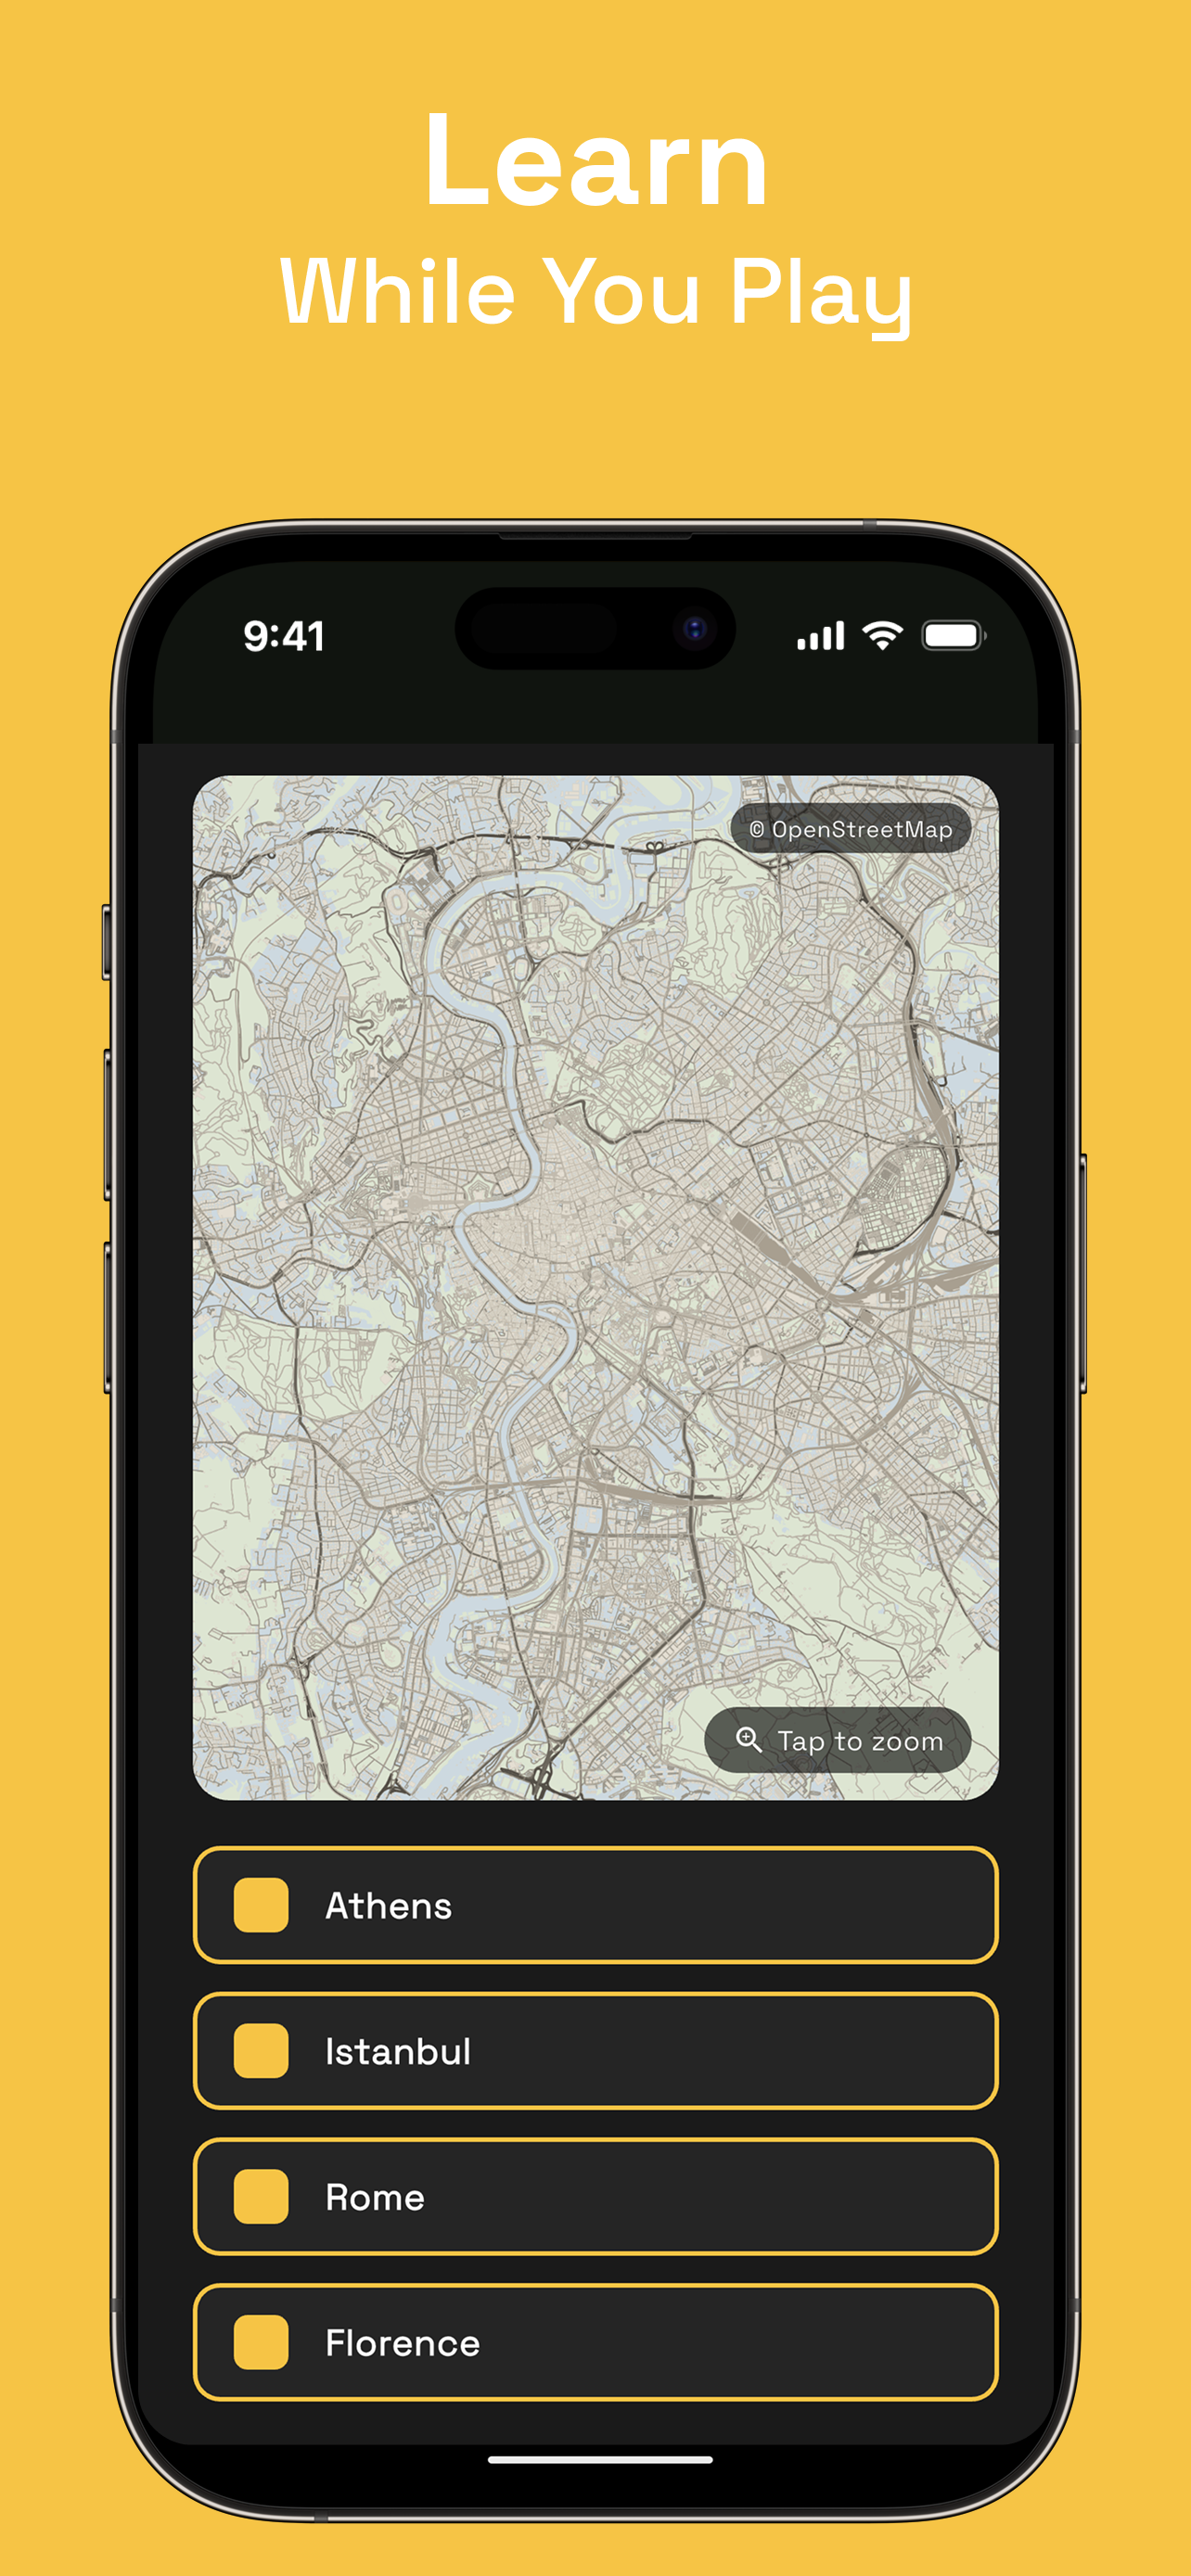
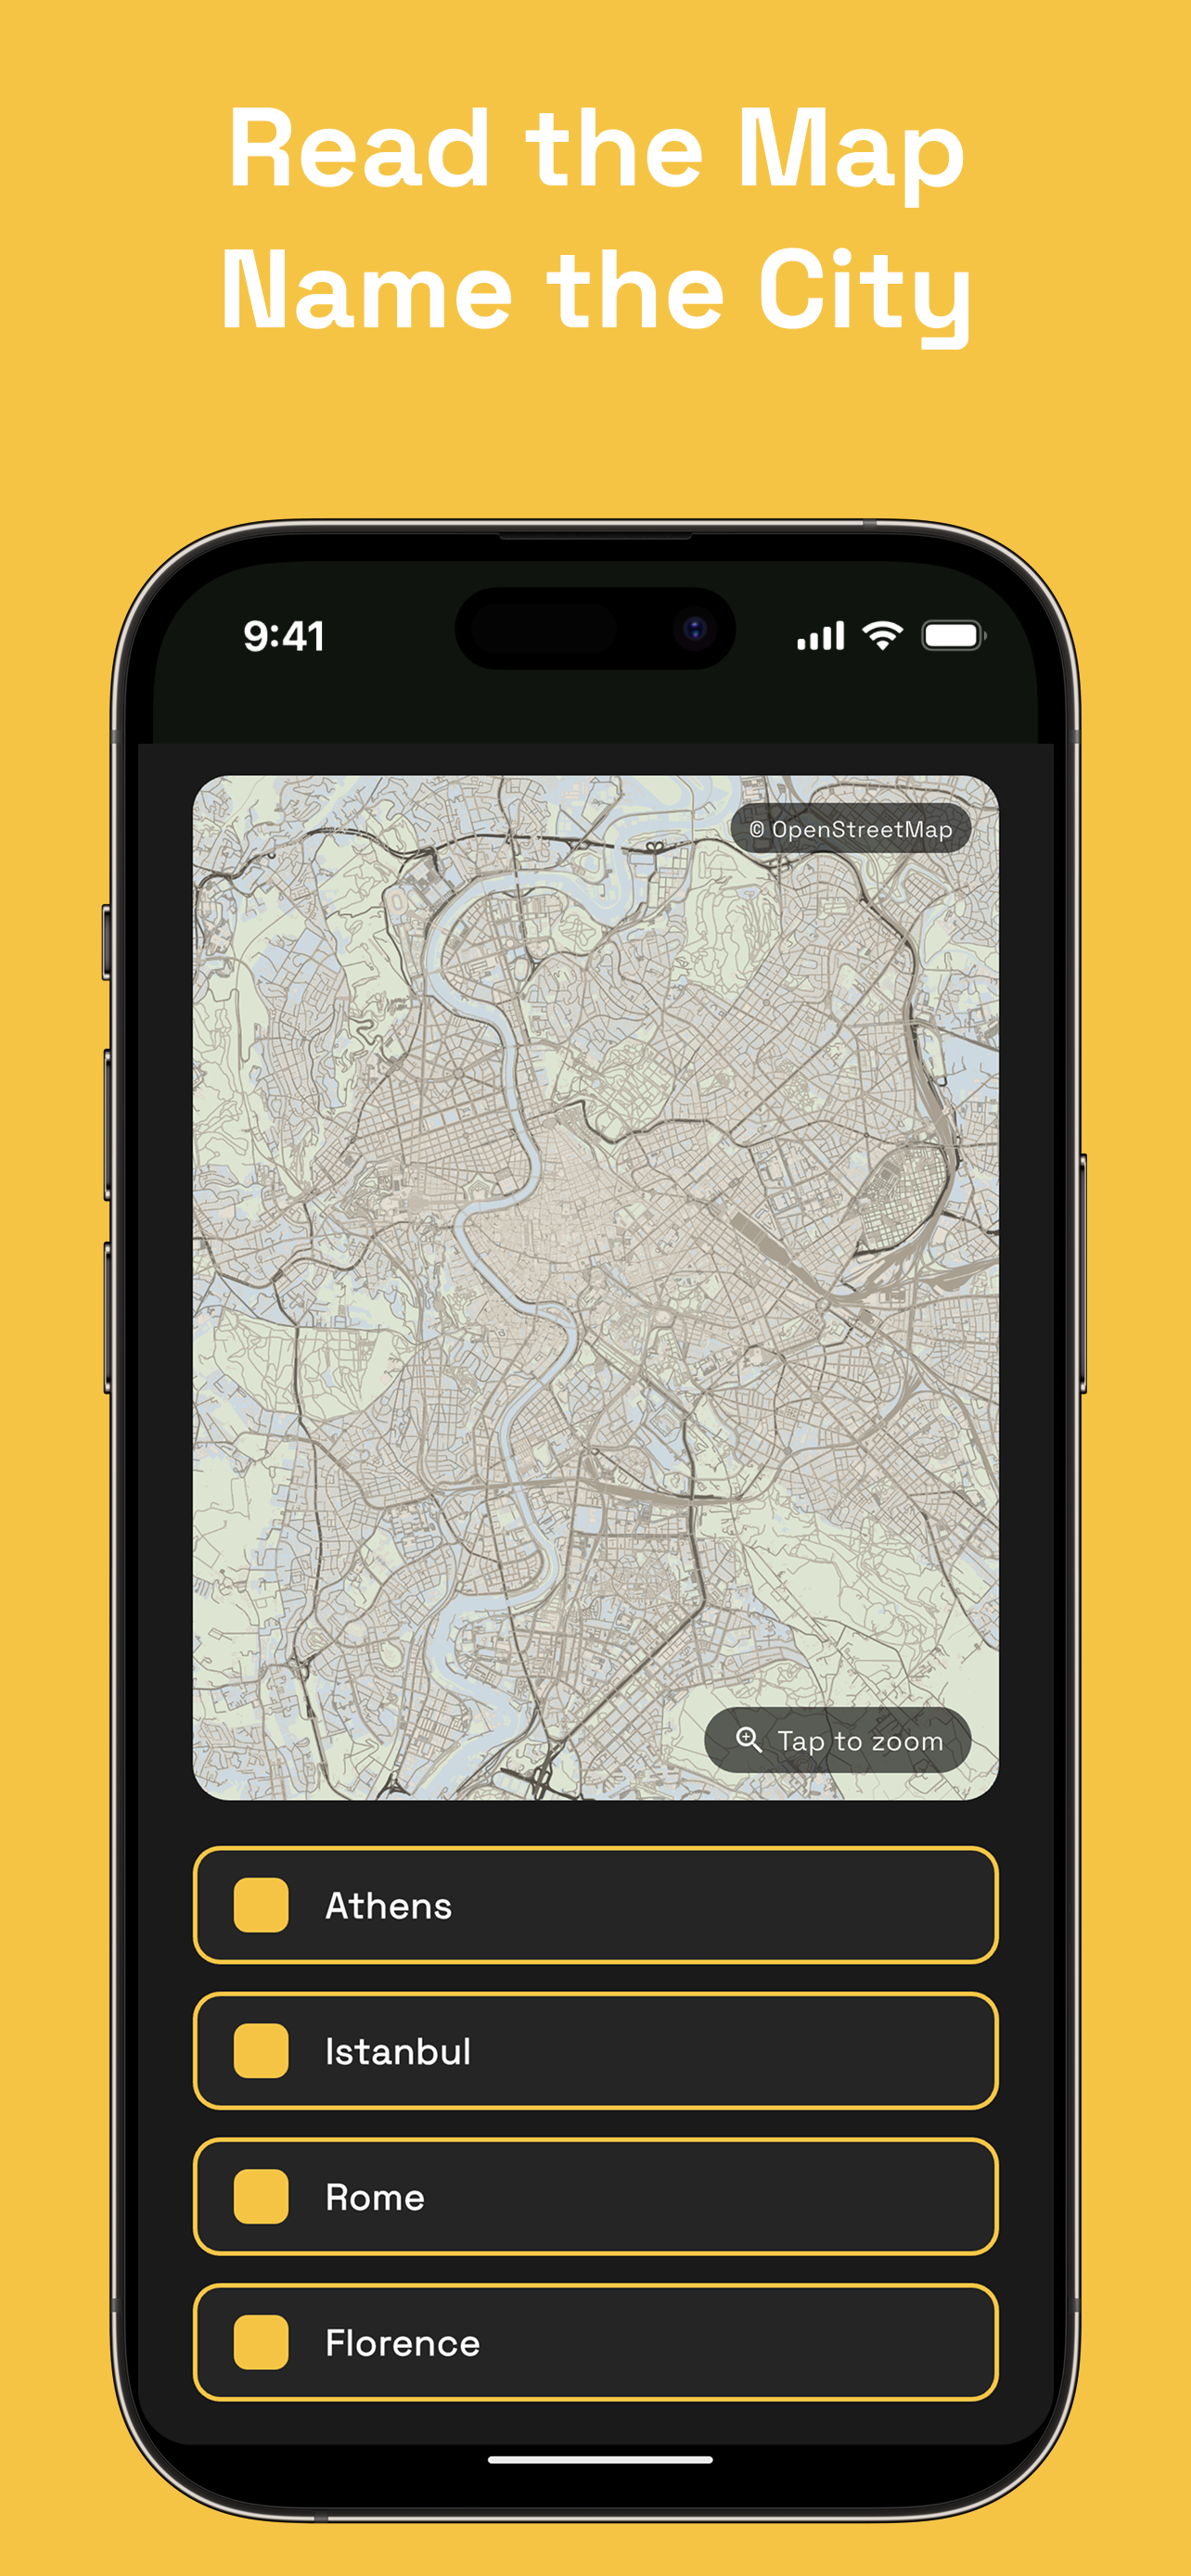
website updated

Changed region(s): [[0.1869, 0.031, 0.81, 0.1548]]

diff --git a/index.html b/index.html
@@ -118,6 +118,11 @@
             line-height: 1.65;
         }
 
+        .hero-sub strong {
+            color: #f0c02e;
+            font-weight: 600;
+        }
+
         .badges {
             display: flex;
             gap: 1rem;
@@ -439,14 +444,27 @@
 
         @media (max-width: 768px) {
             .hero {
-                grid-template-columns: 1fr;
+                display: flex;
+                flex-direction: column;
+                align-items: center;
                 padding: 3rem 1.5rem 3rem;
-                gap: 2.5rem;
+                gap: 1.5rem;
                 text-align: center;
             }
 
+            /* lift the hero children up so the title, images and text can interleave */
             .hero-content {
-                align-items: center;
+                display: contents;
+            }
+
+            .hero h1 {
+                order: -2;
+                font-size: 2.4rem;
+            }
+
+            .hero-screenshots {
+                order: -1;
+                margin: 0.75rem 0;
             }
 
             .badges {
@@ -464,10 +482,6 @@
             .hero-screenshots img:nth-child(2) {
                 height: 290px;
                 margin-left: -36px;
-            }
-
-            .hero h1 {
-                font-size: 2.4rem;
             }
 
             .features-grid {
@@ -506,10 +520,10 @@
         <section class="hero">
             <div class="hero-content">
                 <h1>Can You Guess a City<br><span>From Its Map Alone?</span></h1>
-                <p class="hero-sub">A geography quiz game built on real street maps. Study the coastline, the rivers,
-                    the street grid — then make your call.</p>
-                <p class="hero-sub">Themed city packs. Multiple map styles. Quick rounds.</p>
-                <p class="hero-sub">Free to play. No geography degree needed.</p>
+                <p class="hero-sub">One real street map. No labels, no hints. Read the rivers, the coastline, the
+                    grid — then <strong>trust your gut</strong>.</p>
+                <p class="hero-sub">Themed city packs, <strong>stunning map styles</strong>, and quick rounds that turn
+                    into <strong>"just one more"</strong>.</p>
                 <div class="badges">
                     <a href="https://apps.apple.com/app/city-map-guesser/id0000000000"
                         onclick="trackDownload('app_store', 'hero')"><img
@@ -552,7 +566,7 @@
         <div class="section-divider"></div>
 
         <!-- How it works -->
-        <section class="features" id="how">
+        <!-- <section class="features" id="how">
             <p class="section-label">How it works</p>
             <h2 class="section-title">Three steps per round.</h2>
             <div class="features-grid">
@@ -585,7 +599,7 @@
                 </div>
 
             </div>
-        </section>
+        </section> -->
 
 
         <div class="section-divider"></div>